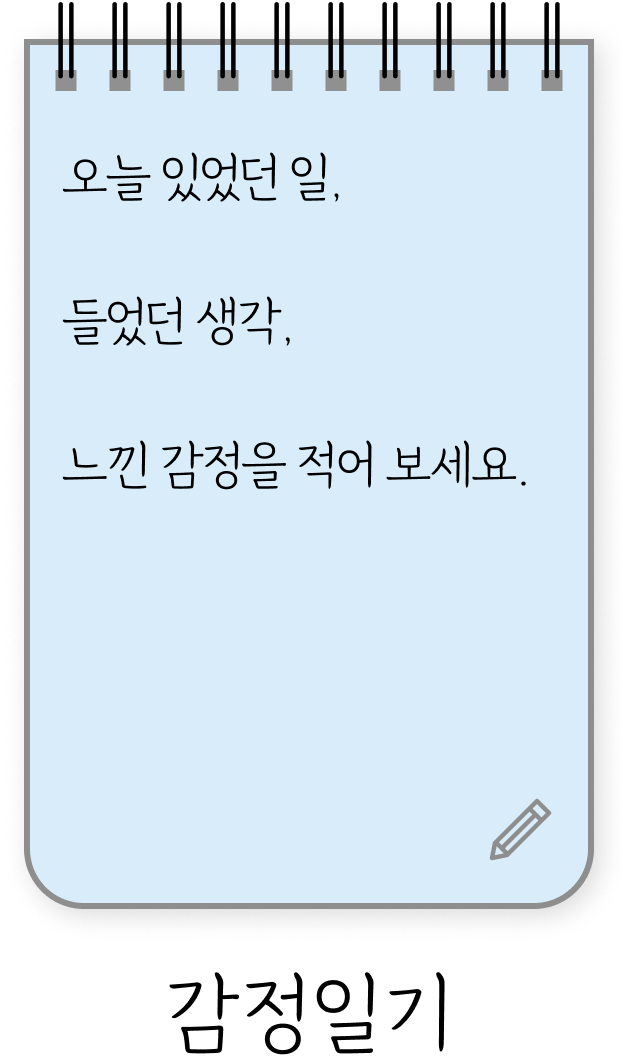
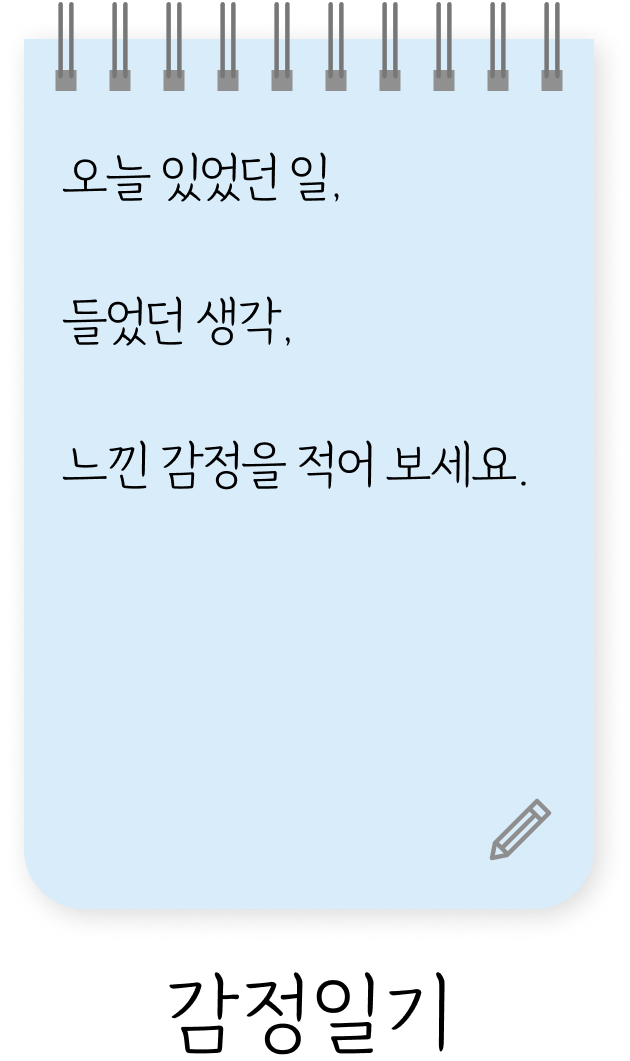
textfield padding

Changed region(s): [[0.0302, 0.0, 0.9651, 0.8709], [0.9048, 0.8087, 0.9349, 0.8398]]

diff --git a/lib/services/emotion_service.dart b/lib/services/emotion_service.dart
@@ -1,0 +1,126 @@
+// lib/services/emotion_service.dart
+import 'package:cloud_firestore/cloud_firestore.dart';
+import 'package:intl/intl.dart';
+
+class EmotionEntry {
+  final String id;           // 문서 ID (권장: userID_yyyyMMdd)
+  final String userID;
+  final String date;         // "yyyy년 MM월 dd일" (표시용)
+  final double emotion;      // 감정값 (-10 ~ 10)
+  final int year;
+  final int month;
+  final int day;
+  final Timestamp createdAt;
+  final Timestamp? updatedAt;
+
+  EmotionEntry({
+    required this.id,
+    required this.userID,
+    required this.date,
+    required this.emotion,
+    required this.year,
+    required this.month,
+    required this.day,
+    required this.createdAt,
+    this.updatedAt,
+  });
+
+  factory EmotionEntry.fromDoc(DocumentSnapshot<Map<String, dynamic>> doc) {
+    final d = doc.data()!;
+    final emo = (d['emotion'] as num?)?.toDouble()
+        ?? (d['emotionIndex'] as num?)?.toDouble()  // 과거 호환
+        ?? 0.0;
+    return EmotionEntry(
+      id: doc.id,
+      userID: d['userID'] as String,
+      date: d['date'] as String,
+      emotion: emo,
+      year: (d['year'] as num).toInt(),
+      month: (d['month'] as num).toInt(),
+      day: (d['day'] as num).toInt(),
+      createdAt: (d['createdAt'] as Timestamp?) ?? Timestamp(0, 0),
+      updatedAt: d['updatedAt'] as Timestamp?,
+    );
+  }
+}
+
+class EmotionService {
+  final _col = FirebaseFirestore.instance.collection('emotions');
+
+  // yyyyMMdd로 고정 DocID 만들어 하루 1문서 보장 (중복 방지)
+  String _docIdFor(String userID, DateTime kst) {
+    final y = kst.year;
+    final m = kst.month.toString().padLeft(2, '0');
+    final d = kst.day.toString().padLeft(2, '0');
+    return '$userID${y}$m$d';
+  }
+
+  DateTime _nowKst() => DateTime.now().toUtc().add(const Duration(hours: 9));
+  String _dateStr(DateTime d) =>
+      DateFormat('yyyy년 MM월 dd일', 'ko_KR').format(DateTime(d.year, d.month, d.day));
+
+  /// 오늘 감정 upsert (있으면 덮어쓰기, 없으면 생성)
+  Future<void> upsertTodayEmotion({
+    required String userID,
+    required double emotion,
+  }) async {
+    final nowKst = _nowKst();
+    final docId = _docIdFor(userID, nowKst);
+
+    await _col.doc(docId).set({
+      'userID': userID,
+      'emotion': emotion,
+      'date': _dateStr(nowKst),
+      'year': nowKst.year,
+      'month': nowKst.month,
+      'day': nowKst.day,
+      'createdAt': FieldValue.serverTimestamp(),
+      'updatedAt': FieldValue.serverTimestamp(),
+    }, SetOptions(merge: true)); // merge로 안전하게 upsert
+  }
+
+  /// 오늘(KST) 감정값 가져오기
+  Future<double?> getTodayEmotion({required String userID}) async {
+    final nowKst = _nowKst();
+    final docId = _docIdFor(userID, nowKst);
+    final doc = await _col.doc(docId).get();
+    if (!doc.exists) return null;
+    final d = doc.data() as Map<String, dynamic>;
+    final emo = (d['emotion'] as num?) ?? (d['emotionIndex'] as num?);
+    return emo?.toDouble();
+  }
+
+  /// 최근 7일 감정 스트림 (분석 차트용)
+  Stream<List<EmotionEntry>> streamRecent7({required String userID}) {
+    final sevenDaysAgoUtc = DateTime.now().toUtc().subtract(const Duration(days: 7));
+    return _col
+        .where('userID', isEqualTo: userID)
+        .where('createdAt', isGreaterThanOrEqualTo: Timestamp.fromDate(sevenDaysAgoUtc))
+        .orderBy('createdAt', descending: false)
+        .snapshots()
+        .map((snap) => snap.docs.map((d) => EmotionEntry.fromDoc(d)).toList());
+  }
+
+  /// 달력용: 특정 연/월의 감정 맵 (date 문자열 -> emotion)
+  Future<Map<String, double>> loadMonthEmotions({
+    required String userID,
+    required int year,
+    required int month,
+  }) async {
+    final qs = await _col
+        .where('userID', isEqualTo: userID)
+        .where('year', isEqualTo: year)
+        .where('month', isEqualTo: month)
+        .get();
+
+    final map = <String, double>{};
+    for (final doc in qs.docs) {
+      final data = doc.data();
+      final ds = data['date'] as String?;
+      final emo = (data['emotion'] as num?)?.toDouble()
+          ?? (data['emotionIndex'] as num?)?.toDouble();
+      if (ds != null && emo != null) map[ds] = emo;
+    }
+    return map;
+  }
+}

diff --git a/lib/mainPage/diarypage/diary1_page.dart b/lib/mainPage/diarypage/diary1_page.dart
@@ -181,11 +181,14 @@ class _FirstDiaryPageState extends State<FirstDiaryPage> {
                         const SizedBox(width: 30),
                         Text('제목: ', style: _titleStyle),
                         Expanded(
-                          child: TextFormField(
-                            controller: titleController,
-                            style: _titleStyle,
-                            decoration: const InputDecoration(
-                              border: InputBorder.none,
+                          child: Padding(
+                            padding: const EdgeInsets.only(bottom: 10),
+                            child: TextFormField(
+                              controller: titleController,
+                              style: _titleStyle,
+                              decoration: const InputDecoration(
+                                border: InputBorder.none,
+                              ),
                             ),
                           ),
                         ),

diff --git a/lib/mainPage/diarypage/diary2_page.dart b/lib/mainPage/diarypage/diary2_page.dart
@@ -176,11 +176,14 @@ class _SecondDiaryPageState extends State<SecondDiaryPage> {
                         const SizedBox(width: 30),
                         Text('제목: ', style: _titleStyle),
                         Expanded(
-                          child: TextFormField(
-                            controller: titleController,
-                            style: _titleStyle,
-                            decoration: const InputDecoration(
-                              border: InputBorder.none,
+                          child: Padding(
+                            padding: EdgeInsets.only(bottom: 10),
+                            child: TextFormField(
+                              controller: titleController,
+                              style: _titleStyle,
+                              decoration: const InputDecoration(
+                                border: InputBorder.none,
+                              ),
                             ),
                           ),
                         ),

diff --git a/lib/mainPage/diarypage/diary3_page.dart b/lib/mainPage/diarypage/diary3_page.dart
@@ -176,11 +176,14 @@ class _ThirdDiaryPageState extends State<ThirdDiaryPage> {
                         SizedBox(width: 30),
                         Text('제목: ', style: _titleStyle),
                         Expanded(
-                          child: TextField(
-                            controller: titleController,
-                            style: _titleStyle,
-                            decoration: InputDecoration(
-                              border: InputBorder.none,
+                          child: Padding(
+                            padding: EdgeInsets.only(bottom: 10),
+                            child: TextField(
+                              controller: titleController,
+                              style: _titleStyle,
+                              decoration: InputDecoration(
+                                border: InputBorder.none,
+                              ),
                             ),
                           ),
                         ),
